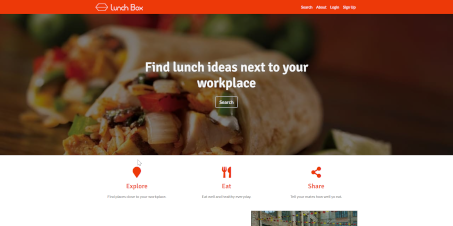
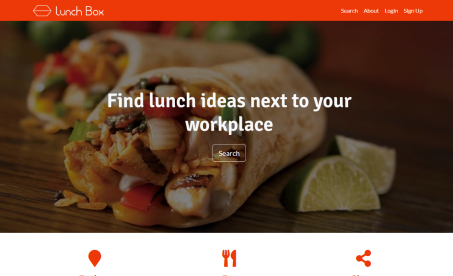
added projects

diff --git a/collections/projects/ai-prompts-vault-api.md b/collections/projects/ai-prompts-vault-api.md
@@ -1,0 +1,16 @@
+---
+title: Symfony Auctions API
+date: 2023-02-28
+image: ./img/ai-prompts-vault-api.png
+tags: ['NodeJS', 'TypeScript', 'PostgreSQL']
+github_url: https://github.com/rod86/ai-prompts-vault-api
+---
+
+AI Prompts Vault is a backend service for saving and organizing AI prompts in one place.
+
+- Get prompts by category.
+- Create an account with enforced strong password rules.
+- Secure authentication with session tokens (JWT).
+- Add, edit and delete prompts.
+- Organize prompts by category.
+- Rate limiting to prevent brute-force attacks and excessive traffic load.

diff --git a/collections/projects/learninghub.md b/collections/projects/learninghub.md
@@ -1,0 +1,14 @@
+---
+title: Learning Hub
+date: 2023-11-01
+image: ./img/learninghub.png
+tags: ['NextJS', 'TypeScript', 'Tailwind CSS', 'Sanity']
+github_url: https://github.com/rod86/learninghub-app
+---
+
+A platform to organize courses or training materials in an organization.
+
+- Browse courses by topic
+- View latest courses
+- Narrow courses by length, skill level, and other options.
+- Content provided by Sanity (Headless CMS)

diff --git a/collections/projects/symfony-auctions-api.md b/collections/projects/symfony-auctions-api.md
@@ -1,0 +1,15 @@
+---
+title: Symfony Auctions API
+date: 2023-02-28
+image: ./img/learninghub.png
+tags: ['Symfony', 'MariaDB', 'RabbitMQ']
+github_url: https://github.com/rod86/symfonyauctions-docker
+---
+
+A REST API for managing online auctions.
+
+- List auctions
+- Create an auction
+- Add a bid to open auction
+- close auction
+- Notify users about auction results
